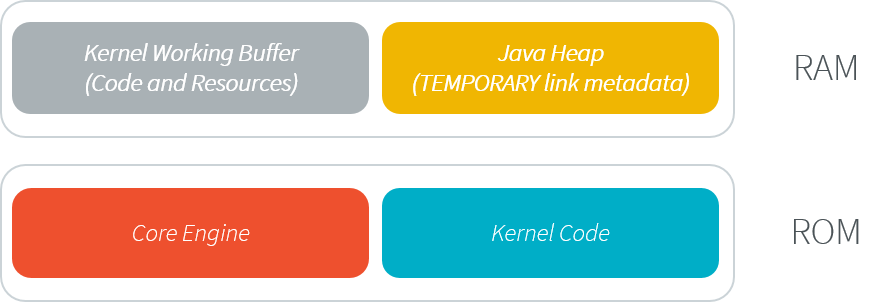
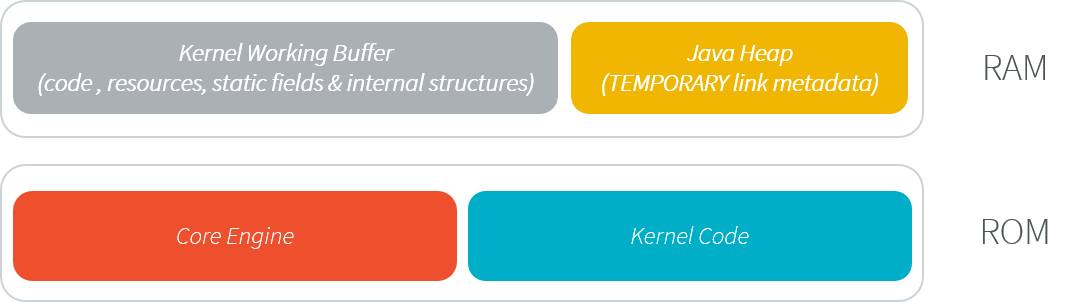
improve in-place installation description from comments

diff --git a/VEEPortingGuide/multiSandbox.rst b/VEEPortingGuide/multiSandbox.rst
@@ -113,7 +113,9 @@ This is the fastest way to go with Feature installation since it only requires c
 
    In-Place Feature Installation Steps
 
-In-Place Feature installation only applies in RAM: the whole Feature content (code and resources) is allocated in the Kernel Working Buffer. 
+Features are installed in RAM. The required memory is allocated in the Kernel Working Buffer. 
+This includes code, resources, static fields and internal structures.
+When the Feature is uninstalled, allocated memory is reclaimed. 
 When the Core Engine or the device restarts, the Kernel Working Buffer is reset; thus there is no persistent Feature. 
 
 .. figure:: images/multisandbox-link-inplace-memories.png
